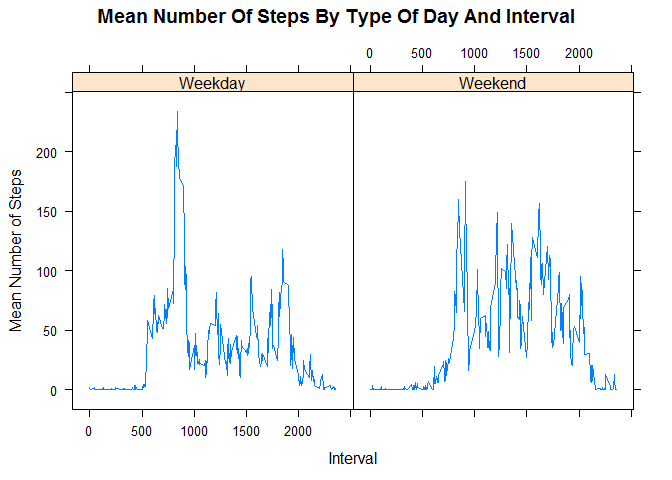
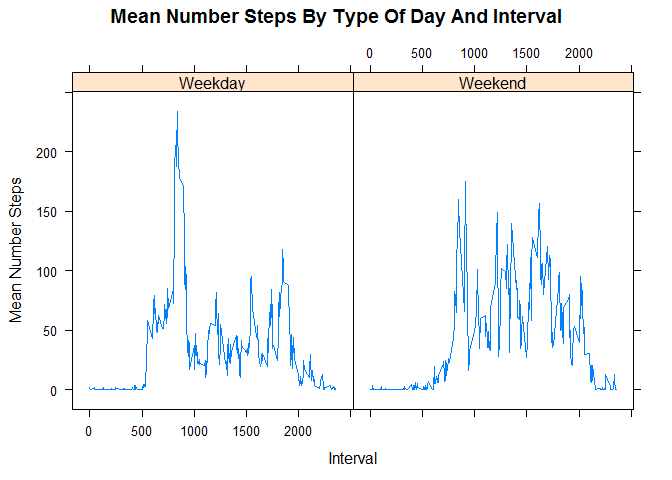
Peer Assessment #1

Changed region(s): [[0.125, 0.0, 0.875, 0.0625], [0.0, 0.3438, 0.0312, 0.6875]]

diff --git a/PA1_template.html b/PA1_template.html
@@ -240,11 +240,11 @@ setnames(dtStepsByTypeOfDayAndInterval, &quot;V1&quot;, &quot;meanSteps&quot;)</
 xyplot(meanSteps ~ interval | TypeOfDay,
         data = dtStepsByTypeOfDayAndInterval,
         type = &quot;l&quot;,
-        main = &quot;Mean Number Of Steps By Type Of Day And Interval&quot;,
+        main = &quot;Mean Number Steps By Type Of Day And Interval&quot;,
         xlab = &quot;Interval&quot;,
-        ylab = &quot;Mean Number of Steps&quot;,
+        ylab = &quot;Mean Number Steps&quot;,
         layout = c(2, 1))</code></pre>
[2 lines of base64/hex data omitted]
 </div>
 
 

diff --git a/PA1_template.md b/PA1_template.md
@@ -269,9 +269,9 @@ library(lattice)
 xyplot(meanSteps ~ interval | TypeOfDay,
 		data = dtStepsByTypeOfDayAndInterval,
 		type = "l",
-		main = "Mean Number Of Steps By Type Of Day And Interval",
+		main = "Mean Number Steps By Type Of Day And Interval",
 		xlab = "Interval",
-		ylab = "Mean Number of Steps",
+		ylab = "Mean Number Steps",
 		layout = c(2, 1))
 ```
 
